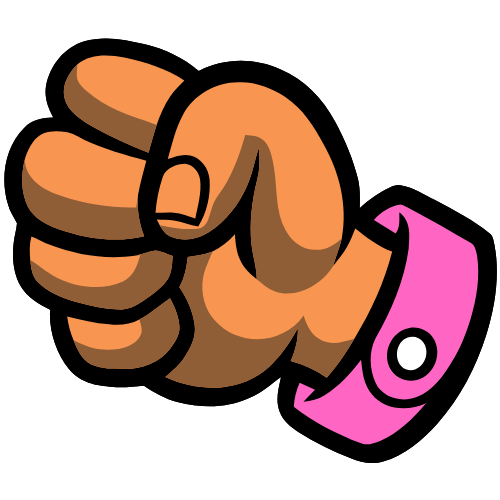
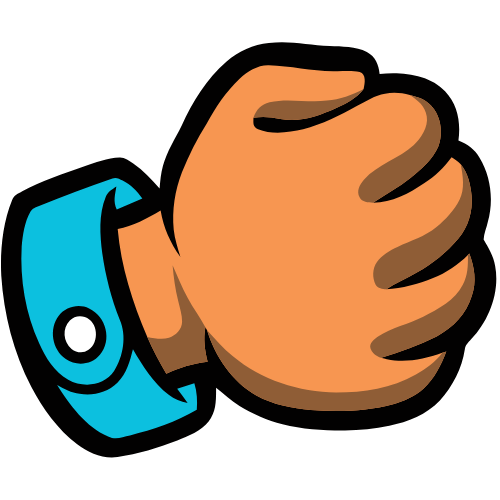
Completed UI design for RPS game for now. Maybe more changes to come.

diff --git a/script.js b/script.js
@@ -23,17 +23,35 @@ function playGame(roundEnd) {
     }
 
     function determineComputerChoice(computerChoice) {
+        const computer_frame_img = document.querySelector('.computer_frame img');
+
+         // REMOVE ANIMATION AND RESET
+         computer_frame_img.style.animation = 'none';
+         computer_frame_img.offsetHeight;
+
+         // APPLY ANIMATION
+         computer_frame_img.style.animation = 'shake 1600ms ease-in';
+
         if(computerChoice >= 1 && computerChoice <=3) {
-            console.log(`Computer chooses Rock!`);
-            computer_text.textContent = "Computer chooses Rock!";
+            computer_frame_img.src = '/images/rps-rock-hand-left.png';
+            setTimeout(()=> {
+                computer_frame_img.src = '/images/rps-rock-hand-left.png';
+                computer_text.textContent = "Computer chooses Rock!";
+            }, 1400)
             return "rock";
         } else if(computerChoice >= 4 && computerChoice <= 6) {
-            console.log(`Computer chooses Paper!`);
-            computer_text.textContent = "Computer chooses Paper!";
+            computer_frame_img.src = '/images/rps-rock-hand-left.png';
+            setTimeout(()=> {
+                computer_frame_img.src = '/images/rps-paper-hand-left.png';
+                computer_text.textContent = "Computer chooses Paper!";
+            }, 1400)
             return "paper";
         } else if(computerChoice >= 7 && computerChoice <= 10) {
-            console.log(`Computer chooses Scissors!`);
-            computer_text.textContent = "Computer chooses Scissors!";
+            computer_frame_img.src = '/images/rps-rock-hand-left.png';
+            setTimeout(()=> {
+                computer_frame_img.src = '/images/rps-scissors-hand-left.png';
+                computer_text.textContent = "Computer chooses Scissors!";
+            }, 1400)
             return "scissors";
         }
     }
@@ -41,20 +59,30 @@ function playGame(roundEnd) {
     function handlePlayerChoice(playerChoice) {
         const player_frame_img = document.querySelector('.player_frame img');
 
+        // REMOVE ANIMATION AND RESET
+        player_frame_img.style.animation = 'none';
+        player_frame_img.offsetHeight;
+
+        // APPLY ANIMATION
+        player_frame_img.style.animation = 'shake 1600ms ease-in';
+        
         if(!activeGame) return;
 
         if(playerChoice === "rock") {
+            player_frame_img.src = '/images/rps-rock-hand-right.png';
             setTimeout(()=> {
-                player_frame_img.src = '/images/rps-rock-hand-left.png';
-            }, 1000)
+                player_frame_img.src = '/images/rps-rock-hand-right.png';
+            }, 1400)
         } else if(playerChoice === "paper") {
+            player_frame_img.src = '/images/rps-rock-hand-right.png';
             setTimeout(()=> {
-                player_frame_img.src = '/images/rps-paper-hand-left.png';
-            }, 1000)
+                player_frame_img.src = '/images/rps-paper-hand-right.png';
+            }, 1400)
         } else {
+            player_frame_img.src = '/images/rps-rock-hand-right.png';
             setTimeout(()=> {
-                player_frame_img.src = '/images/rps-scissors-hand-left.png';
-            }, 1000)
+                player_frame_img.src = '/images/rps-scissors-hand-right.png';
+            }, 1400)
         }
         
         const computerChoice = determineComputerChoice(getComputerChoice());
@@ -85,46 +113,39 @@ function playGame(roundEnd) {
 
 
         if (playerChoice === computerChoice) {
-                    console.log(`Player chooses ${playerChoice.charAt(0).toUpperCase() + playerChoice.slice(1)
-                    }!`);
-                    player_text.textContent = `Player chooses ${playerChoice.charAt(0).toUpperCase() + playerChoice.slice(1)
-                    }!`;
-                    gameScore.player++;
-                    gameScore.computer++;
-                    player_score.textContent = `Player Score: ${gameScore.player}`;
-                    computer_score.textContent = `Computer Score: ${gameScore.computer}`;
-                    console.log(`It's a tie!`);
-                    winner_text.textContent = `It's a tie!`;
+                    setTimeout(()=> {
+                        player_text.textContent = `Player chooses ${playerChoice.charAt(0).toUpperCase() + playerChoice.slice(1)
+                        }!`;
+                        player_score.textContent = `Player Score: ${gameScore.player}`;
+                        computer_score.textContent = `Computer Score: ${gameScore.computer}`;
+                        winner_text.textContent = `It's a tie!`;
+                    }, 1400);
+                        gameScore.player++;
+                        gameScore.computer++;
                     
         } else if ((playerChoice === 'rock' && computerChoice === 'scissors') ||
                    (playerChoice === 'paper' && computerChoice === 'rock') ||
                    (playerChoice === 'scissors' && computerChoice === 'paper')){
-                     console.log(`Player chooses ${playerChoice.charAt(0).toUpperCase() + playerChoice.slice(1)}!`);
-                     player_text.textContent = `Player chooses ${playerChoice.charAt(0).toUpperCase() + playerChoice.slice(1)
-                     }!`;
-                     console.log(`You win this round! ${playerChoice.charAt(0).toUpperCase() + playerChoice.slice(1)} beats ${computerChoice.charAt(0).toUpperCase() + computerChoice.slice(1)}!`);
-                     winner_text.textContent = `You win this round! ${playerChoice.charAt(0).toUpperCase() + playerChoice.slice(1)} beats ${computerChoice.charAt(0).toUpperCase() + computerChoice.slice(1)}!`;
-
-                     gameScore.player++;
-                     console.log(`Player Score: ${gameScore.player}`);
-                     player_score.textContent = `Player Score: ${gameScore.player}`;
-                     console.log(`Computer Score: ${gameScore.computer}`);
-                     computer_score.textContent = `Computer Score: ${gameScore.computer}`;
+                    setTimeout(()=> {
+                        player_text.textContent = `Player chooses ${playerChoice.charAt(0).toUpperCase() + playerChoice.slice(1)
+                        }!`;
+                        winner_text.textContent = `You win this round! ${playerChoice.charAt(0).toUpperCase() + playerChoice.slice(1)} beats ${computerChoice.charAt(0).toUpperCase() + computerChoice.slice(1)}!`;
+                        player_score.textContent = `Player Score: ${gameScore.player}`;
+                        computer_score.textContent = `Computer Score: ${gameScore.computer}`;
+                    }, 1400);
+                        gameScore.player++;
         } else {
-                     console.log(`Player chooses ${playerChoice.charAt(0).toUpperCase() + playerChoice.slice(1)}!`);
-                     player_text.textContent = `Player chooses ${playerChoice.charAt(0).toUpperCase() + playerChoice.slice(1)
-                     }!`;
-                     console.log(`You lose this round! ${computerChoice.charAt(0).toUpperCase() + computerChoice.slice(1)} beats ${playerChoice.charAt(0).toUpperCase() + playerChoice.slice(1)}!`);
-                     winner_text.textContent = `You lose this round! ${computerChoice.charAt(0).toUpperCase() + computerChoice.slice(1)} beats ${playerChoice.charAt(0).toUpperCase() + playerChoice.slice(1)}!`
-                     gameScore.computer++
-                     console.log(`Computer Score: ${gameScore.computer}`);
-                     computer_score.textContent = `Computer Score: ${gameScore.computer}`;
-                     console.log(`Player Score: ${gameScore.player}`);
-                     player_score.textContent = `Player Score: ${gameScore.player}`;
+                setTimeout(()=> {
+                    player_text.textContent = `Player chooses ${playerChoice.charAt(0).toUpperCase() + playerChoice.slice(1)
+                    }!`;
+                    winner_text.textContent = `You lose this round! ${computerChoice.charAt(0).toUpperCase() + computerChoice.slice(1)} beats ${playerChoice.charAt(0).toUpperCase() + playerChoice.slice(1)}!`
+                    computer_score.textContent = `Computer Score: ${gameScore.computer}`;
+                    player_score.textContent = `Player Score: ${gameScore.player}`;
+                }, 1400);   
+                    gameScore.computer++
         }
             
         localStorage.setItem('gameScore', JSON.stringify(gameScore));
-        console.log(gameScore);
 
         // ROUND END
         if(roundEnd) {
@@ -136,6 +157,8 @@ function playGame(roundEnd) {
 function gameWinner() {
     // TEXT ELEMENT DECLARATIONS
     const winner_text = document.querySelector('.winner_text');
+    const reset_btn = document.querySelector('.reset_btn');
+    const reset_btn_overlay = document.querySelector('.reset_btn_overlay');
 
     // VARIABLE TO COUNT AMOUNT OF ROUNDS PER TURN FOR FIVE TURNS
     let round=0;
@@ -148,14 +171,17 @@ function gameWinner() {
             activeGame = false;
 
             if(gameScore.player > gameScore.computer){
-                console.log("You won the RPS Championship of the World!!")
-                winner_text.textContent = `You won the RPS Championship of the World!!`
+                setTimeout(()=> {
+                    winner_text.textContent = `You won the RPS Championship of the World!!`
+                }, 1400);
             } else if(gameScore.player < gameScore.computer) {
-                console.log("Computer won the RPS Championship of the World!!")
-                winner_text.textContent = `Computer won the RPS Championship of the World!!`
+                setTimeout(()=> {
+                    winner_text.textContent = `Computer won the RPS Championship of the World!!`
+                }, 1400);
             } else {
-                console.log(`This bout was scored a DRAW!`);
-                winner_text.textContent = `This bout was scored a DRAW!`
+                setTimeout(()=> {
+                    winner_text.textContent = `This bout was scored a DRAW!`
+                }, 1400);
             }
 
                 // Disable buttons and clear game state
@@ -168,11 +194,18 @@ function gameWinner() {
 
                 // CLEANS GAME SCORE WHEN GAME IS WON OR LOST
                 localStorage.clear();
-            } 
+                setTimeout(()=> {
+                    reset_btn_overlay.style.display = 'block';
+                }, 3000);
+            }
         }
+        
+        // START GAME INVOKING ROUNDBYROUND FUNC AS A CALLBACK IN PLAYGAME FUNC
+        playGame(roundByRound);
 
-    // START GAME INVOKING ROUNDBYROUND FUNC AS A CALLBACK IN PLAYGAME FUNC
-    playGame(roundByRound);
+        reset_btn.addEventListener('click', ()=> {
+            window.location.reload()
+        });
 }
 
 gameWinner();

diff --git a/style.css b/style.css
@@ -25,6 +25,7 @@ body {
   
 
 .wrapper {
+    position: relative;
     /* background-image: url(/images/city_lights_1.jpg);
     background-repeat: no-repeat;
     background-position: center; */
@@ -118,10 +119,6 @@ body {
     display: flex;
     justify-content: center;
     align-items: center;
-    /* background-image: url('/images/rps-default-hand-left.png');
-    background-repeat: no-repeat;
-    background-position: center;
-    background-size: 150px; */
 
     border: 10px groove rgba(0, 174, 255, 0.5);
     border-radius: 100%;
@@ -139,10 +136,6 @@ body {
     display: flex;
     justify-content: center;
     align-items: center;
-    /* background-image: url('/images/rps-default-hand-right.png');
-    background-repeat: no-repeat;
-    background-position: center;
-    background-size: 150px; */
 
     border: 10px groove rgb(255, 105, 180, 0.5);
     border-radius: 100%;
@@ -158,6 +151,18 @@ body {
 .computer_frame img {
     width: 150px;
     height: auto;
+}
+
+/* IMAGE SHAKE WHEN BUTTONS PRESSED AND BEFORE RPS CHANGE */
+@keyframes shake {
+    0% {transform: translateY(5px)}
+    25% {transform: translateY(-5px)}
+    50% {transform: translateY(5px)}
+    75% {transform: translateY(-5px)}
+    100% {transform: translateY(5px)}
+    50% {transform: translateY(-5px)}
+    25% {transform: translateY(5px)}
+    0% {transform: translateY(-5px)}     
 }
 
 .text_container {
@@ -195,13 +200,45 @@ body {
 }
 
 .btn_container {
+    position: relative;
+
     display: flex;
     justify-content: center;
     align-items: center;
 
+    width: 100%;
+
     margin-bottom: 80px;
 
     gap: 10px;
+}
+
+.reset_btn_overlay {
+    background-color: rgb(0, 0, 0, 0.7);
+
+    display: none;
+
+    position: absolute;
+    top: 0;
+    right: 0;
+    bottom: 0;
+    left: 0;
+}
+
+.reset_btn {
+    background-image: url('/images/rps_restart_btn.png');
+    background-repeat: no-repeat;
+    background-position: center center;
+    background-size: cover;
+
+    width: 200px;
+    height: 200px;
+
+    position: absolute;
+    left: 50%;
+    bottom: 50%;
+
+    transform: translate(-50%, 50%)
 }
 
 .rock_btn {

diff --git a/index.html b/index.html
@@ -22,11 +22,11 @@
             </div>
             <div class="game_screen">
                 <div class="player_frame">
-                    <img src="/images/rps-default-hand-left.png" alt="...">
+                    <img src="/images/rps-rock-hand-right.png" alt="...">
                 </div>
                 <img class="vs_image" src="/images/vs_game_icon.png" alt="...">
                 <div class="computer_frame">
-                    <img src="/images/rps-default-hand-right.png" alt="...">
+                    <img src="/images/rps-rock-hand-left.png" alt="...">
                 </div>
             </div>
             <div class="text_container">
@@ -38,6 +38,9 @@
                 <button class="rock rock_btn permanent-marker-regular"></button>
                 <button class="paper paper_btn permanent-marker-regular"></button>
                 <button class="scissors scissors_btn permanent-marker-regular"></button>
+            </div>
+            <div class="reset_btn_overlay">
+                <div class="reset_btn"></div>
             </div>
        </div>
     </div>
